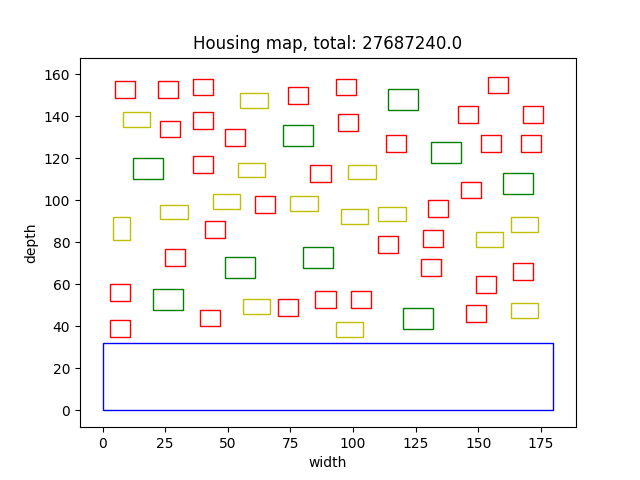
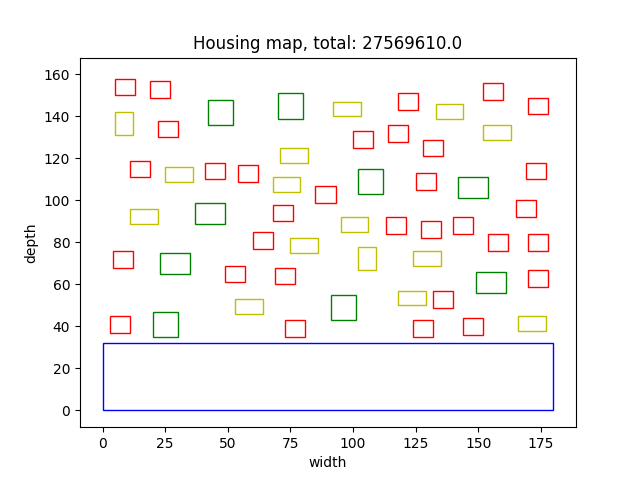
added free space to check bounds function

Changed region(s): [[0.1562, 0.1562, 0.875, 0.7188], [0.5938, 0.0625, 0.6875, 0.125]]

diff --git a/project_code/classes/house.py b/project_code/classes/house.py
@@ -36,13 +36,13 @@ class House():
         self.polygon_free_space = Polygon([(self.bottom_left[0] - self.free_space, self.bottom_left[1] - self.free_space), (self.bottom_left[0] + self.width_with_freespace - self.free_space, self.bottom_left[1] - self.free_space), (self.bottom_left[0] + self.width_with_freespace - self.free_space, self.bottom_left[1] + self.depth_with_freespace - self.free_space), (self.bottom_left[0] - self.free_space, self.bottom_left[1] + self.depth_with_freespace - self.free_space)])
         
     def check_bounds(self,width,depth):
-        if self.bottom_left[0] < 0 or self.bottom_left[0] > width:
+        if self.bottom_left[0] - self.free_space < 0 or self.bottom_left[0] + self.free_space > width:
             return False
-        if self.bottom_left[1] < 0 or self.bottom_left[1] > depth:
+        if self.bottom_left[1] - self.free_space < 0 or self.bottom_left[1] + self.free_space > depth:
             return False
-        if self.top_right[0] < 0 or self.top_right[0] > width: 
+        if self.top_right[0] - self.free_space < 0 or self.top_right[0] + self.free_space > width: 
             return False
-        if self.top_right[1] < 0 or self.top_right[1] > depth:
+        if self.top_right[1] - self.free_space < 0 or self.top_right[1] + self.free_space > depth:
             return False
         return True
 

diff --git a/main.py b/main.py
@@ -1,6 +1,7 @@
 from project_code.classes.land import Land
 from project_code.visualisations.visualise import visualise
 from sys import argv
+from project_code.algorithms.render_randomise import Randomise
 from project_code.algorithms.genetic import Genetic
 import cProfile
 import csv
@@ -24,9 +25,9 @@ if __name__ == "__main__":
     
     
     # --------------------------- Random  --------------------------
-    empty_graph = Land(f"data/{wijk_number}.csv")
-    winner_graph = Randomise(empty_graph, number_of_houses, 1)
-    visualise(winner_graph.winner.all_land_objects, winner_graph.winner.total)
+    # empty_graph = Land(f"data/{wijk_number}.csv")
+    # winner_graph = Randomise(empty_graph, number_of_houses, 1)
+    # visualise(winner_graph.winner.all_land_objects, winner_graph.winner.total)
 
     # visualise(winner_graph.winner.all_land_objects, winner_graph.winner.total)
 

diff --git a/project_code/classes/land.py b/project_code/classes/land.py
@@ -146,8 +146,6 @@ class Land():
             elif house.name == "maison":
                 house.price = 610000 + (610000 * 0.06 * house.nearest_neighbour)
                 self.total += house.price
-        
-        print(len(self.all_land_objects))
         return self.total
 
 
